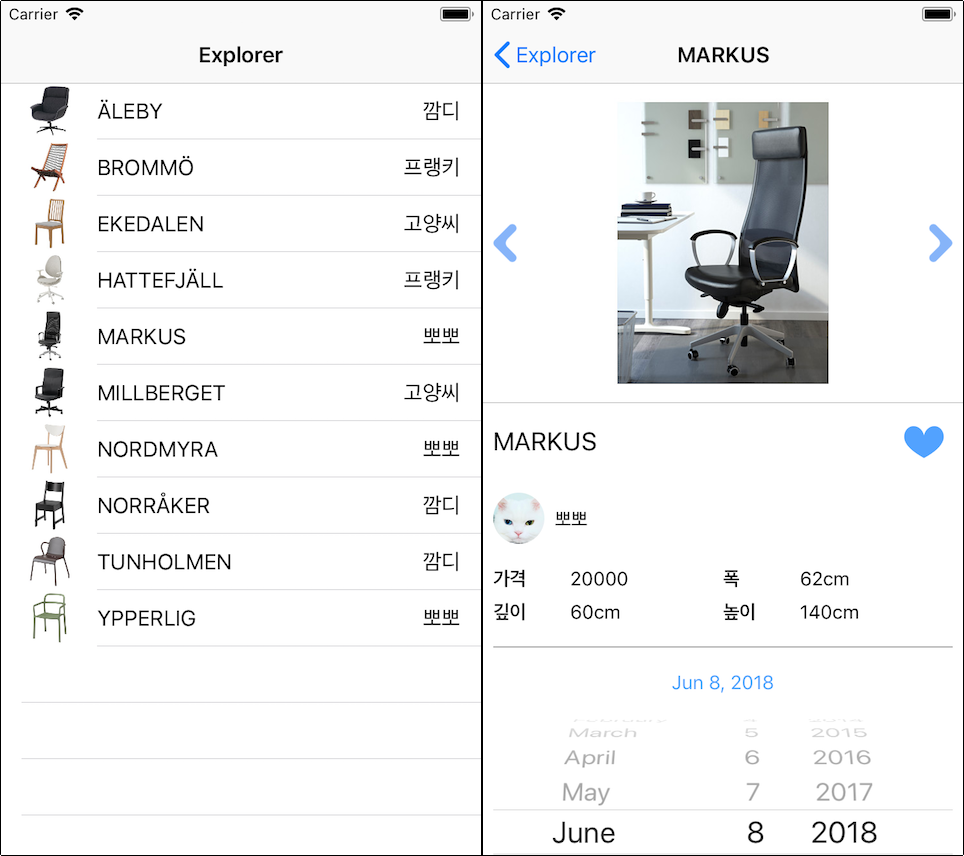
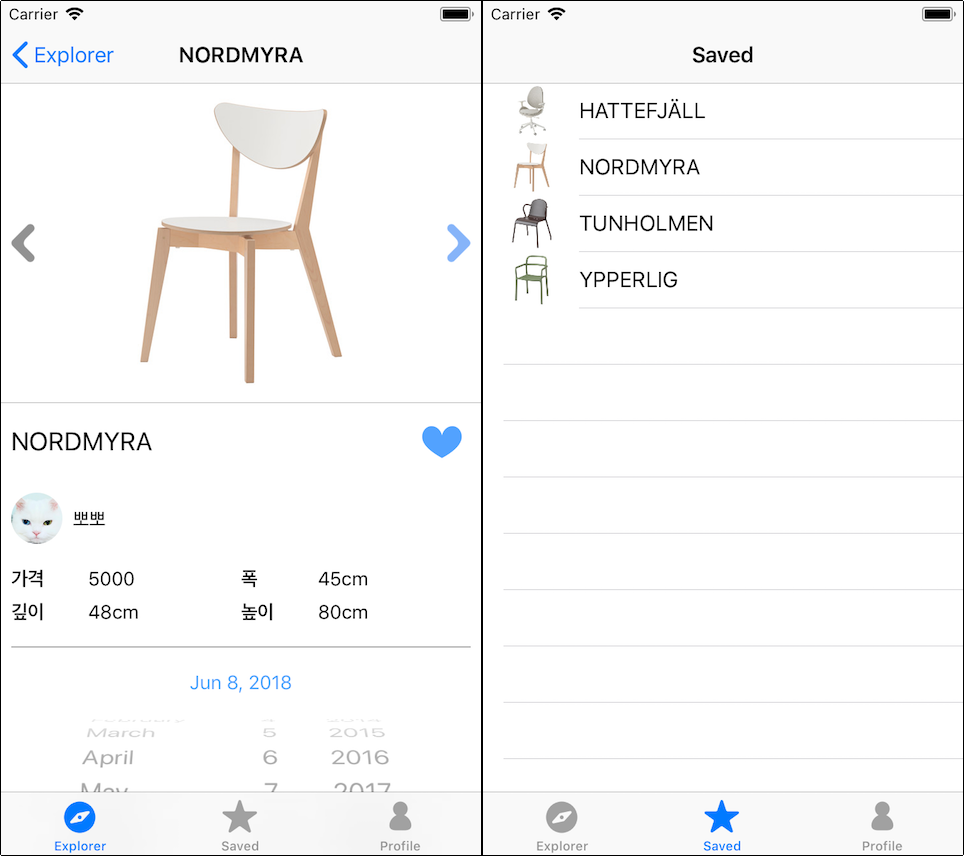
탭 기반의 멀티 씬 예제 - Step5

diff --git a/AirCnC/SavedListViewController.swift b/AirCnC/SavedListViewController.swift
@@ -1,0 +1,51 @@
+//
+//  SavedListViewController.swift
+//  AirCnC
+//
+//  Created by Jaehoon Lee on 2018. 4. 13..
+//  Copyright © 2018년 wannabewize. All rights reserved.
+//
+
+import UIKit
+
+class SavedTableViewController: UITableViewController {
+    
+    var appDelegate: AppDelegate!
+
+    override func viewDidLoad() {
+        super.viewDidLoad()
+    }
+
+    override func didReceiveMemoryWarning() {
+        super.didReceiveMemoryWarning()
+    }
+    
+    override func viewWillAppear(_ animated: Bool) {
+        appDelegate = UIApplication.shared.delegate as! AppDelegate
+        self.tableView.reloadData()
+    }
+    
+    override func tableView(_ tableView: UITableView, commit editingStyle: UITableViewCellEditingStyle, forRowAt indexPath: IndexPath) {
+        appDelegate.removeSave( appDelegate.saves[indexPath.row] )
+        tableView.deleteRows(at: [indexPath], with: .automatic)
+    }
+
+    override func numberOfSections(in tableView: UITableView) -> Int {
+        return 1
+    }
+
+    override func tableView(_ tableView: UITableView, numberOfRowsInSection section: Int) -> Int {
+        return appDelegate.saves.count
+    }
+
+    override func tableView(_ tableView: UITableView, cellForRowAt indexPath: IndexPath) -> UITableViewCell {
+        let cell = tableView.dequeueReusableCell(withIdentifier: "SavedCell", for: indexPath)
+        
+        let item = appDelegate.saves[indexPath.row]
+        
+        cell.textLabel?.text = item.itemName
+        cell.imageView?.image = UIImage(named: item.itemImage)
+
+        return cell
+    }
+}

diff --git a/AirCnC/ViewController.swift b/AirCnC/ViewController.swift
@@ -51,7 +51,17 @@ class ViewController: UIViewController {
     
     // 좋아요/저장 버튼 토글방식으로 동작. touchUpInside와 연결
     @IBAction func handleLike(_ sender: Any) {
-        likeButton.isSelected = !likeButton.isSelected
+        if let item = self.item {
+            // 좋아요 목록에서 제거/좋아요 목록에 추가
+            if Liked.shared.isLiked(item) {
+                Liked.shared.remove(item)
+                likeButton.isSelected = false
+            }
+            else {
+                Liked.shared.add(item)
+                likeButton.isSelected = true
+            }
+        }
     }
     
     // 날짜 선택
@@ -100,6 +110,9 @@ class ViewController: UIViewController {
             showImage(index: 0)
             
             self.title = item.name
+            
+            // 좋아요가 눌러졌는지 좋아요 버튼에 반영
+            likeButton.isSelected = Liked.shared.isLiked(item)
         }       
         
         // 날짜 레이블 설정

diff --git a/AirCnC/Models.swift b/AirCnC/Models.swift
@@ -37,3 +37,35 @@ class User {
     static let goyangci = User(name: "고양씨", image:"goyangc")
     static let popo = User(name: "뽀뽀", image:"popo")
 }
+
+struct Liked {
+    // Singleton
+    static var shared = Liked()
+    
+    var saves : [Item] = []
+    
+    func isLiked(_ item: Item) -> Bool {
+        for one in saves {
+            // 제품 이름으로 같다고 비교한다. TODO : equal operator 작성
+            if one.name == item.name {
+                return true
+            }
+        }
+        return false
+    }
+    
+    mutating func add(_ item: Item) {
+        self.saves.append(item)
+    }
+    
+    mutating func remove(_ item: Item) {
+        for (index, one) in saves.enumerated() {
+            // 제품 이름으로 같다고 비교한다. TODO : equal operator 작성
+            if one.name == item.name {
+                saves.remove(at: index)
+                return
+            }
+        }
+    }
+
+}

diff --git a/AirCnC/AppDelegate.swift b/AirCnC/AppDelegate.swift
@@ -13,7 +13,6 @@ class AppDelegate: UIResponder, UIApplicationDelegate {
 
     var window: UIWindow?
 
-
     func application(_ application: UIApplication, didFinishLaunchingWithOptions launchOptions: [UIApplicationLaunchOptionsKey: Any]?) -> Bool {
         // Override point for customization after application launch.
         return true

diff --git a/README.md b/README.md
@@ -1,9 +1,9 @@
 # Coder's High AirCnC Example
 
-## Step4 목록 상세
+## Step5 멀티 씬
 
-- 내비게이션 컨트롤러를 이용해서 목록/상세 씬 구조 만들기
-- 세그웨이를 이용해서 씬 전환시 데이터 전달
-- 복잡한 모델 작성(구조체, 클래스)
+- 탭바 컨트롤러를 이용해서 병렬 씬 구조 만들기
+- 탭 기반의 씬에서 데이터 공유
+- 테이블 뷰에서 항목 삭제
 
-![](https://github.com/CodersHigh/AirCnC/blob/Step4/Sceenshot.png?raw=true)
+![](https://github.com/CodersHigh/AirCnC/blob/Step5/Sceenshot.png?raw=true)
